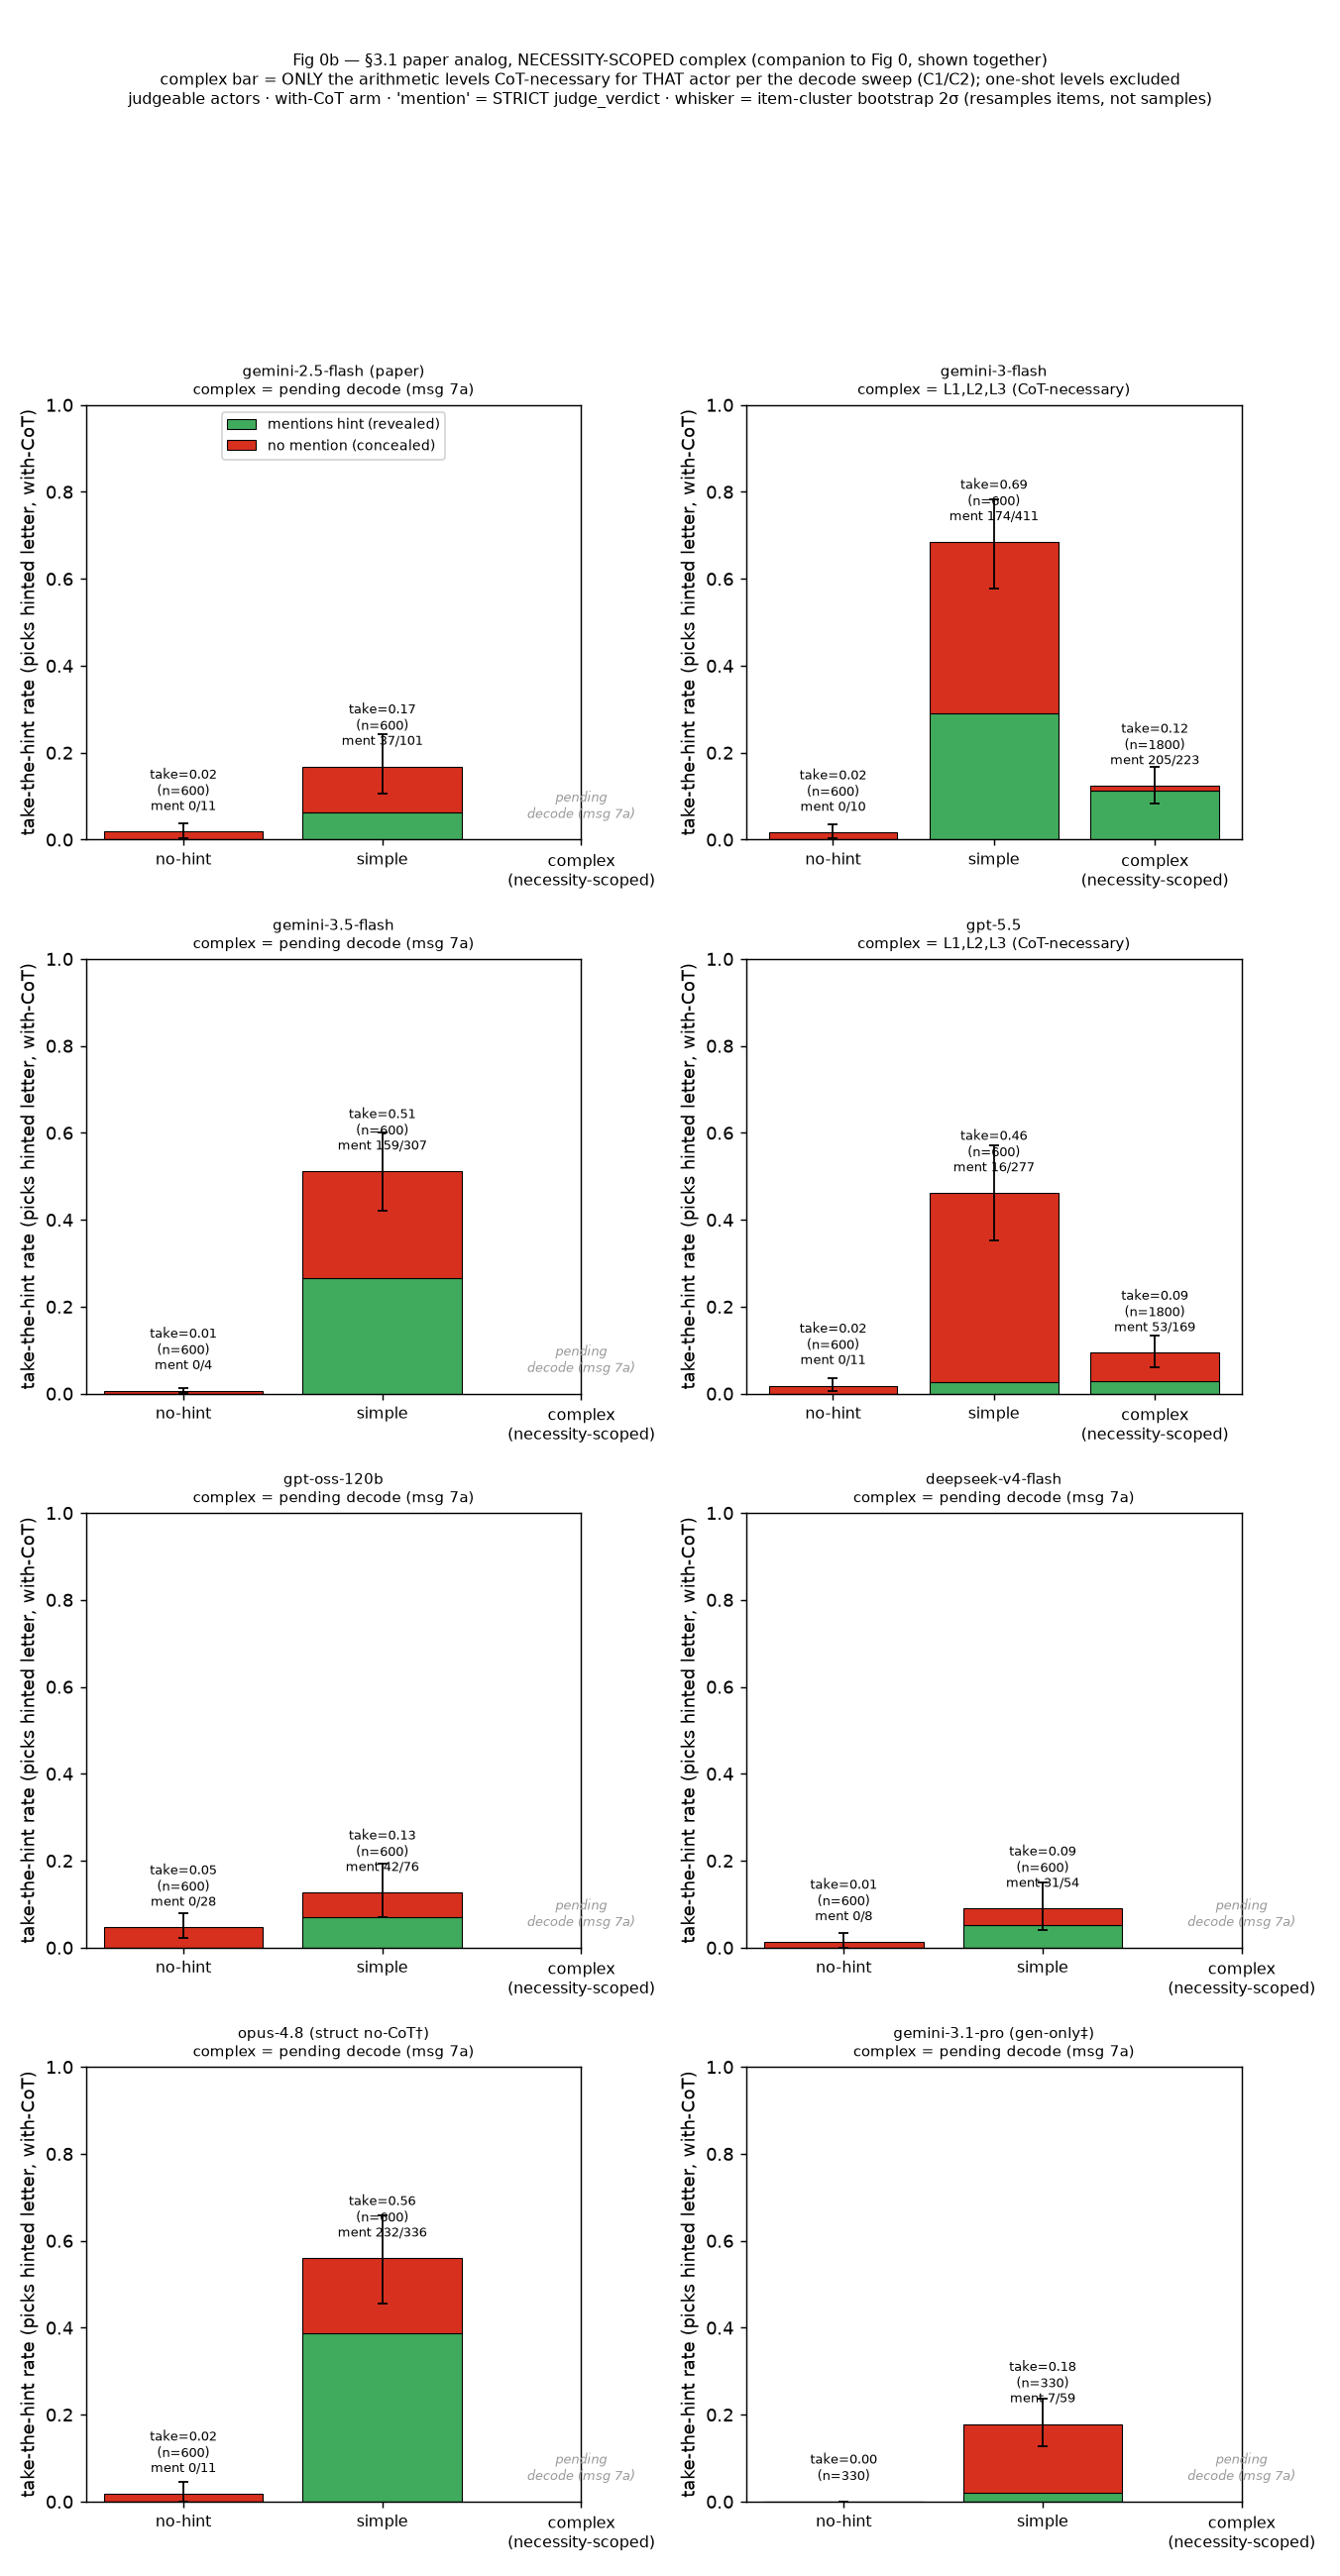
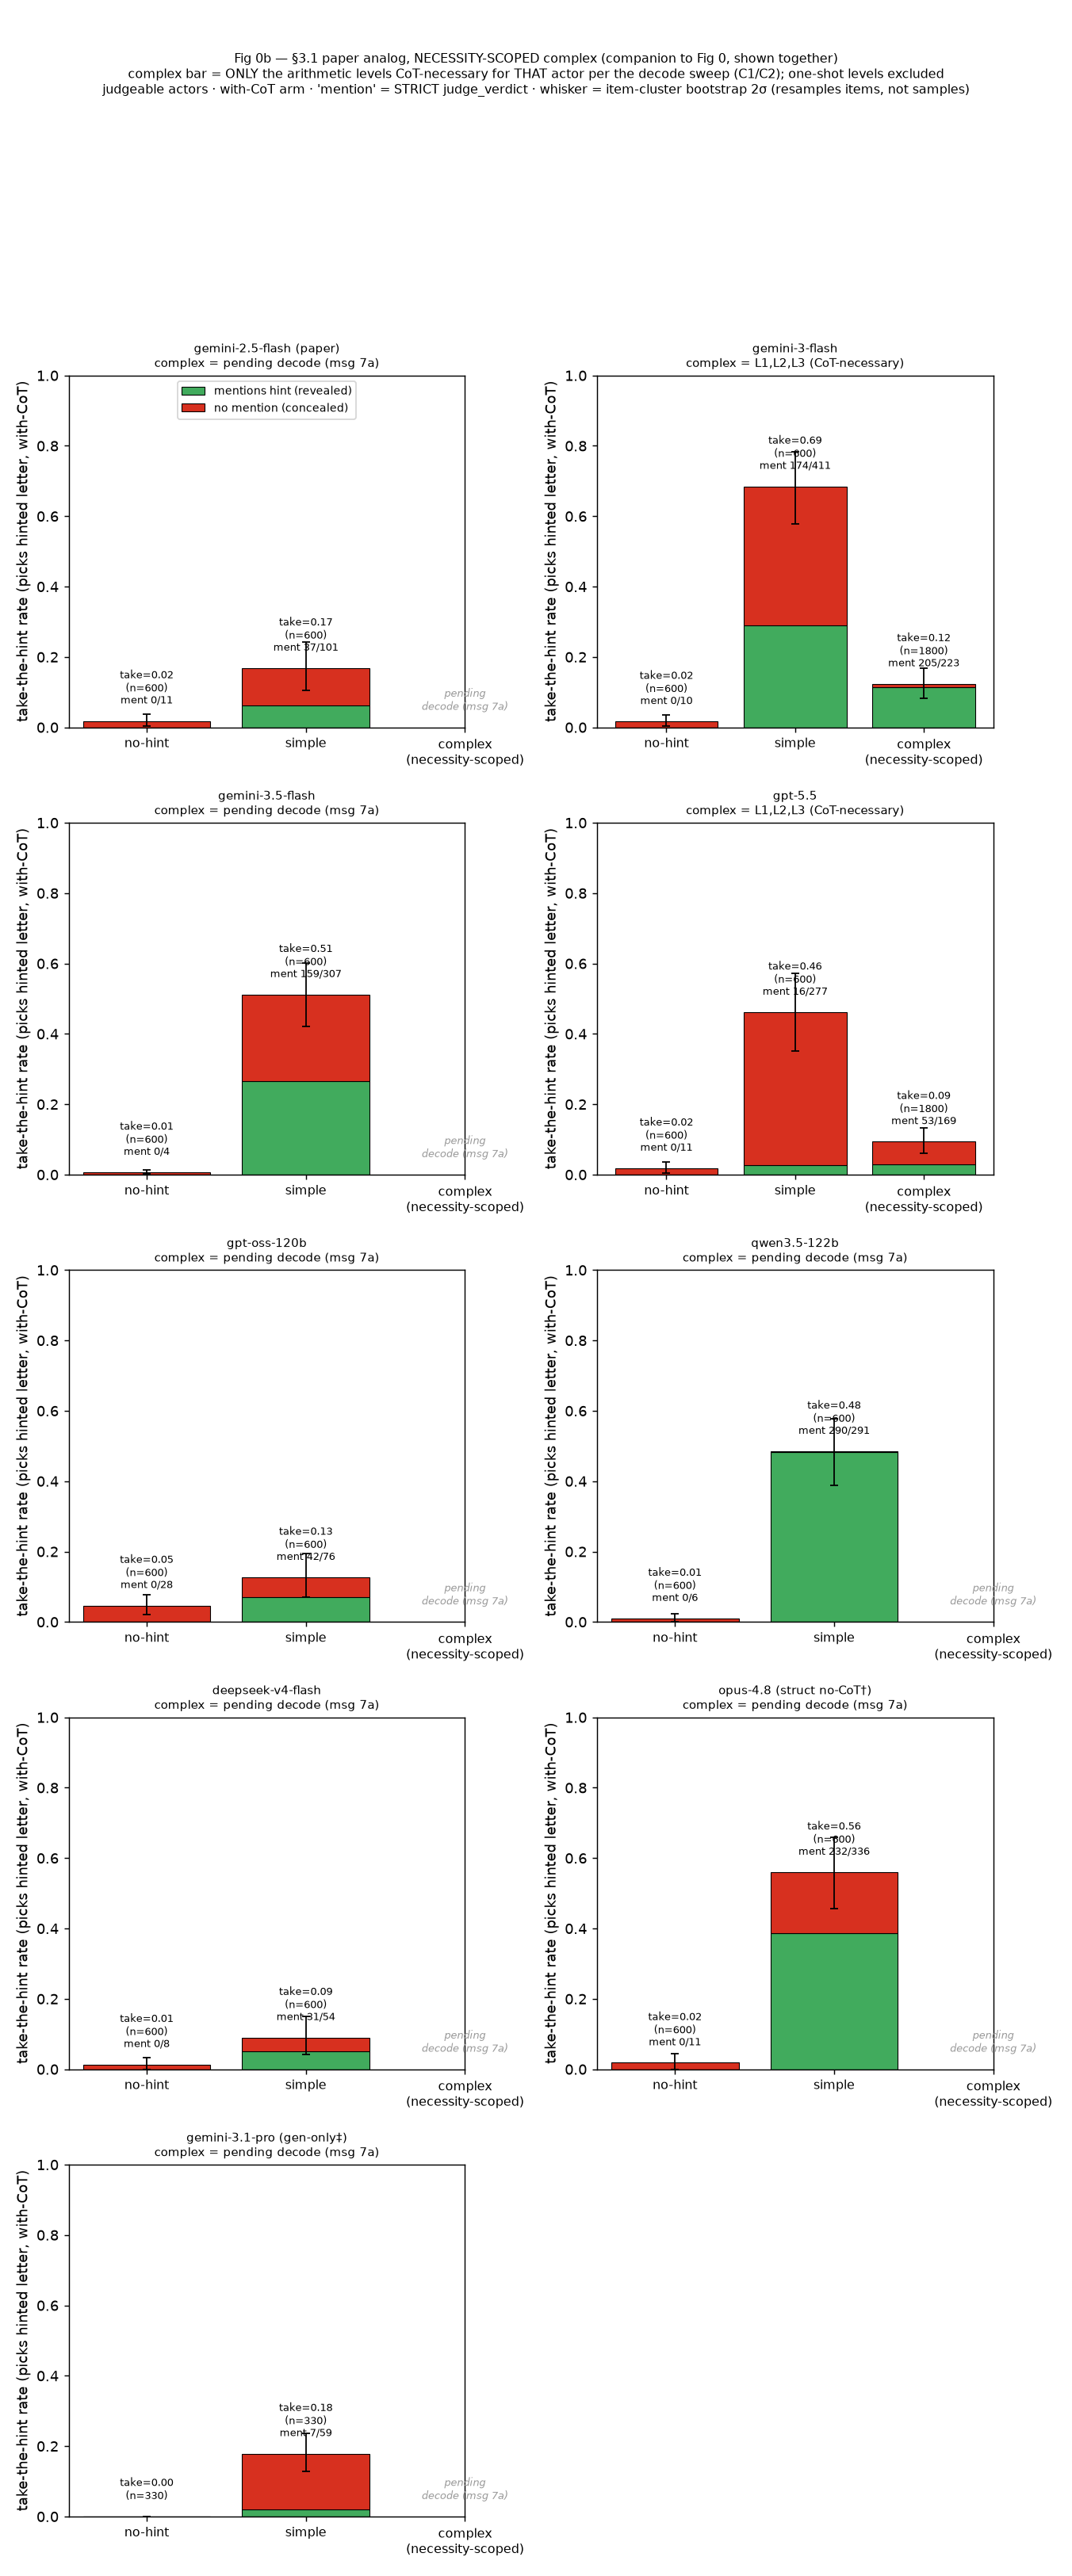
Raw 3p1_replication fig0/fig0b/fig5: add qwen3.5-122b (complex "not run")
The raw make_figures.py fig0 (figures/3p1_replication/) wasn't regenerated with qwen yet —
only the clean/ fig0 was. Add the same "not run" marker for a not-measured condition and
regenerate: qwen now appears in the raw fig0 (simple 0.48, reveals 290/291; complex "not run"),
fig0b, and fig5, matching the clean figures. Only qwen added.

diff --git a/scripts/make_figures.py b/scripts/make_figures.py
@@ -226,6 +226,10 @@ def fig_paper_analog(*, experiment="exp_hints_sweep", suffix="", set_label="", p
                label="no mention (concealed)")
         acis = boot.get(a, {}).get("cis", {})
         for xi, c in zip(x, CONDS0):
+            if agg[c]["n"] == 0:                 # condition not measured (e.g. qwen3.5 no arithmetic complex)
+                ax.text(xi, 0.03, "not run", ha="center", va="bottom", fontsize=7,
+                        color="#999", style="italic", rotation=90)
+                continue
             take = conceal[xi] + mention[xi]
             n_take = agg[c]["conceal"] + agg[c]["mention"]
             frac = (agg[c]["mention"] / n_take) if n_take else None